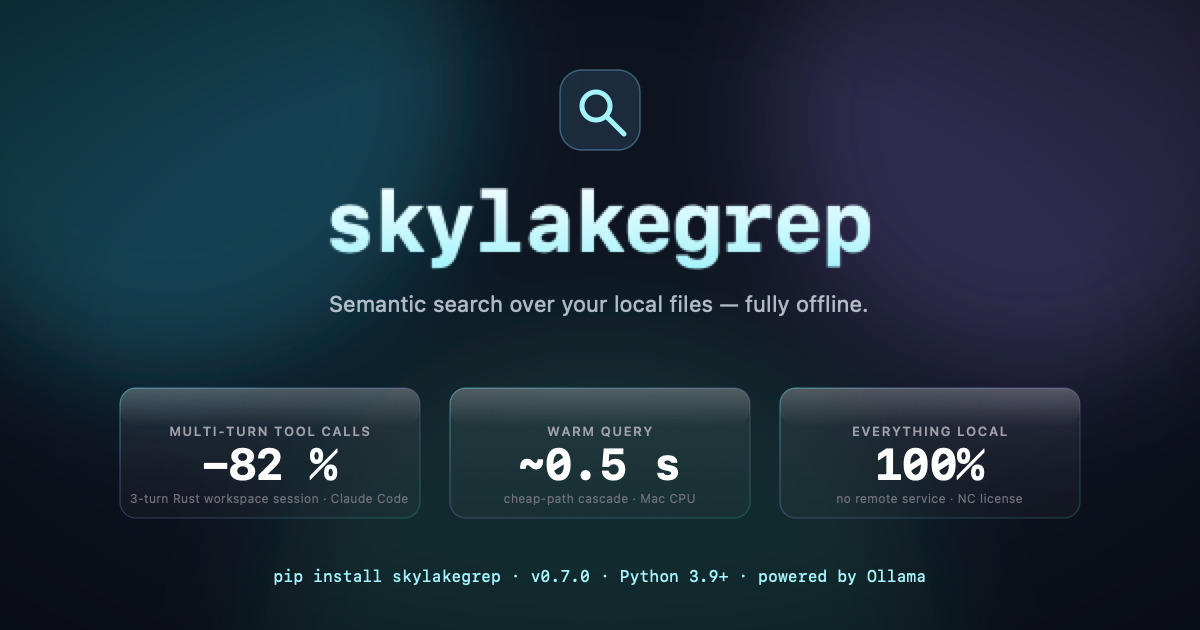
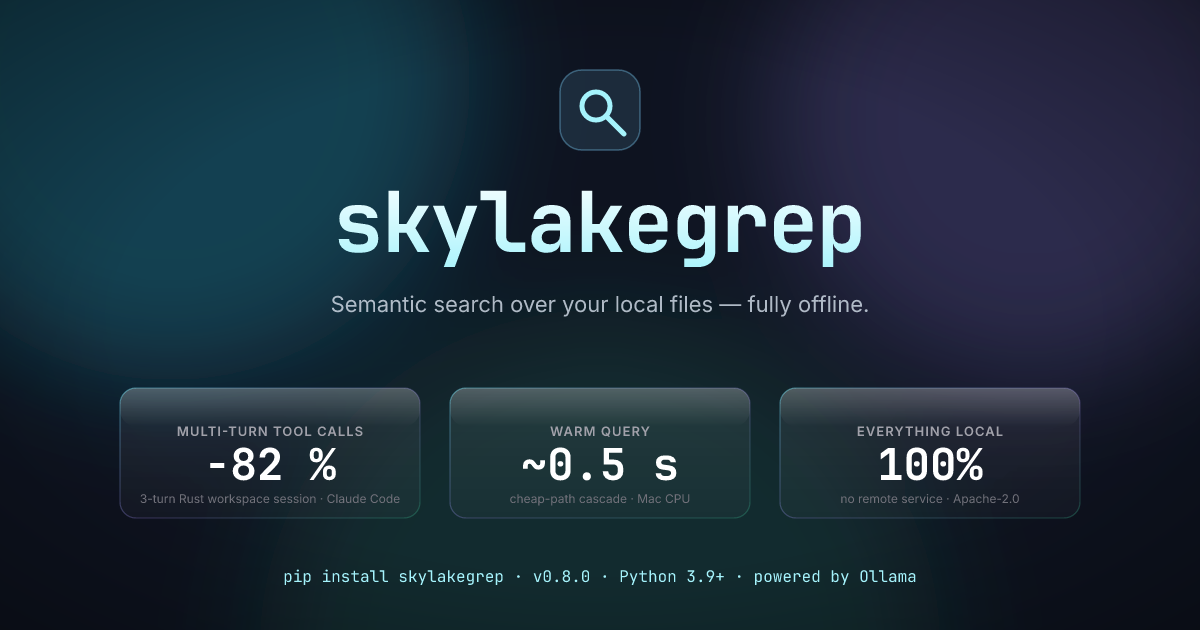
docs: refresh front-page facts for 0.8.0 (#43)
README hero strip and homepage trust strip use current receipt-backed facts; rg-only baseline caveat beside the 17.982x headline; social card Apache-2.0 + v0.8.0; CLI cheatsheet symbols tile; roadmap 0.8.0.

Claude-Session: https://claude.ai/code/session_01FTMaVWXm7m7rQ3heaSRGct

diff --git a/docs/index.html b/docs/index.html
@@ -14,7 +14,7 @@
  <meta property="og:image" content="https://danielchen26.github.io/skylakegrep/assets/og-image.png" />
  <meta property="og:image:width" content="1200" />
  <meta property="og:image:height" content="630" />
- <meta property="og:image:alt" content="skylakegrep social card showing the wordmark, three performance highlights (30/30 public-OSS recall, sub-second warm queries, 100% local), and the latest version." />
+ <meta property="og:image:alt" content="skylakegrep social card showing the wordmark, three highlights (82% fewer multi-turn tool calls in a Claude Code session, ~0.5 s cheap-path warm query, 100% local under Apache-2.0), and the latest version." />
  <meta name="twitter:card" content="summary_large_image" />
  <meta name="twitter:title" content="skylakegrep — fully-offline semantic search over your local files" />
  <meta name="twitter:description" content="Fully-offline semantic search. v0.8.0: token-lean agent loop (compact JSON, --agent-slim, skygrep symbols), MCP search/agent_context/symbols. 100% local — a retrieval component, not a full agent." />
@@ -700,7 +700,7 @@ Throughput projections under sustained 5k QPS load...</pre>
  </div>
 
  <p class="trust-strip">
- <strong>17.982×</strong> median eligible context reduction
+ <strong>17.982×</strong> median context reduction vs. an unbounded <code>rg</code> dump
  <span class="dot">·</span>
  <strong>53 / 60</strong> quality-eligible public tasks
  <span class="dot">·</span>
@@ -710,7 +710,7 @@ Throughput projections under sustained 5k QPS load...</pre>
  <span class="dot">·</span>
  <strong>100 %</strong> local
  <span class="dot">·</span>
- <strong>50</strong> releases shipped
+ <strong>58</strong> releases shipped
  </p>
 </section>
 
@@ -1070,7 +1070,7 @@ skygrep search "where is token refresh implemented?" -m 10</code></pre>
  <div class="bench-stat">
  <div class="bench-stat-num">17.982×</div>
  <div class="bench-stat-label">median tool-context reduction</div>
- <div class="bench-stat-sub">Only the 53 / 60 unique tasks where both policies passed quality ≥ 0.85.</div>
+ <div class="bench-stat-sub">Only the 53 / 60 unique tasks where both policies passed quality ≥ 0.85. Baseline is an unbounded <code>rg</code> dump; see the token-lean policies in the general-performance page.</div>
  </div>
  <div class="bench-stat">
  <div class="bench-stat-num">5.202×–94.127×</div>

diff --git a/docs/roadmap.html b/docs/roadmap.html
@@ -180,6 +180,11 @@ daemon would amortise model warm-load across all queries on the
 host.</p>
 <h2>Recently done</h2>
 <ul>
+<li><strong>Token-lean agent loop (0.8.0).</strong> Compact agent JSON, <code>--agent-slim</code>,
+  <code>skygrep symbols</code> and the MCP <code>symbols</code> tool; indexes left without embeddings
+  are repaired by <code>skygrep index .</code>. Next: a <code>bge-m3</code> receipt for the
+  <code>skygrep-slim</code> / <code>rg-agent</code> policies and a fully progressive fallback.
+  See the <a href="skylakegrep-0.8.0.html">0.8.0 notes</a>.</li>
 <li><strong>Apache-2.0 relicense (#14).</strong> Live code and packaging are Apache-2.0;
   see <code>LICENSE</code> / <code>NOTICE</code> / <code>TRADEMARK.md</code>. Historical <code>docs/skylakegrep-0.*</code>
   pages remain archival snapshots.</li>

diff --git a/docs/benchmarks.html b/docs/benchmarks.html
@@ -582,6 +582,14 @@ skygrep "Where does Django turn an incoming URL into the view function that shou
  skygrep versus 88.4% for <code>rg-only</code>; completion was 180 / 180 versus
  159 / 180 observations.
  </p>
+ <p>
+ <code>rg-only</code> lets <code>--max-count</code> act per file, so common terms
+ return most of a large repository (median 13.8M tokens per Spring task). The
+ ratio therefore measures savings against an unbounded dump, not against an
+ agent that truncates tool output. 0.8.0 adds the realistic <code>rg-agent</code>
+ baseline and the token-lean <code>skygrep-slim</code> policy; see
+ <a href="general-performance.html">General performance</a>.
+ </p>
  <div class="table-wrap">
  <table>
  <thead><tr><th>Published metric</th><th>Result</th><th>Claim boundary</th></tr></thead>

diff --git a/README.md b/README.md
@@ -59,12 +59,11 @@ async def renew_session(req: Request):
 [How it works →](#how-it-works) &nbsp;·&nbsp;
 [Benchmarks →](#performance)
 
-> **30 / 30** public-OSS recall (fully-indexed) &nbsp;·&nbsp;
-> **+30 %** lazy auto-trigger over `rg` cold-start (0.5.3) &nbsp;·&nbsp;
-> **bounded wrong-path discovery** via proactive umbrella &nbsp;·&nbsp;
-> **~1 s** warm queries &nbsp;·&nbsp;
+> **60** pinned public benchmark tasks &nbsp;·&nbsp;
+> **92.5 %** retrieval-context quality &nbsp;·&nbsp;
+> **508-token** compact agent anchors (0.8.0) &nbsp;·&nbsp;
 > **100 %** local &nbsp;·&nbsp;
-> **50** releases shipped
+> **58** releases shipped
 
 ---
 
@@ -417,7 +416,11 @@ returned **17.982× less tool context at the median** (repository-aware 95% CI:
 This is a paired retrieval-context result, not a universal runtime claim:
 skygrep used more tool calls overall, and the quality-eligible median task was
 slower in the measured harness even though all-row aggregate elapsed favored
-skygrep. See the [full result and boundaries](docs/general-performance.md) and
+skygrep. The `rg-only` baseline returns every per-file match (median 13.8M
+tokens per Spring task), so the ratio is against an unbounded dump rather than
+an agent that truncates tool output; 0.8.0 adds a realistic `rg-agent`
+baseline and the token-lean `skygrep-slim` policy for that comparison. See the
+[full result and boundaries](docs/general-performance.md) and
 the [immutable raw receipt](benchmarks/reports/general-v2-2026-08-15.json).
 
 Two older results remain useful for regression history, but are not general

diff --git a/docs/roadmap.md b/docs/roadmap.md
@@ -130,3 +130,12 @@ scheduling remains future work.
 ## After 0.7.5
 
 See [FOLLOWUPS-0.7.5.md](FOLLOWUPS-0.7.5.md) for claim-expansion follow-ups (#10 latency receipt, large-repo smoke, other MCP clients).
+
+## After 0.8.0
+
+From [the 0.8.0 release notes](skylakegrep-0.8.0.md):
+
+- Publish a `bge-m3` receipt (three trials, `--tokenizer tiktoken`) comparing
+  `skygrep-first`, `skygrep-slim`, `rg-agent` and `rg-only`.
+- Make the `skygrep-slim` last-resort fallback progressive end to end; the
+  few tasks that fall back to the full policy dominate total tokens today.
